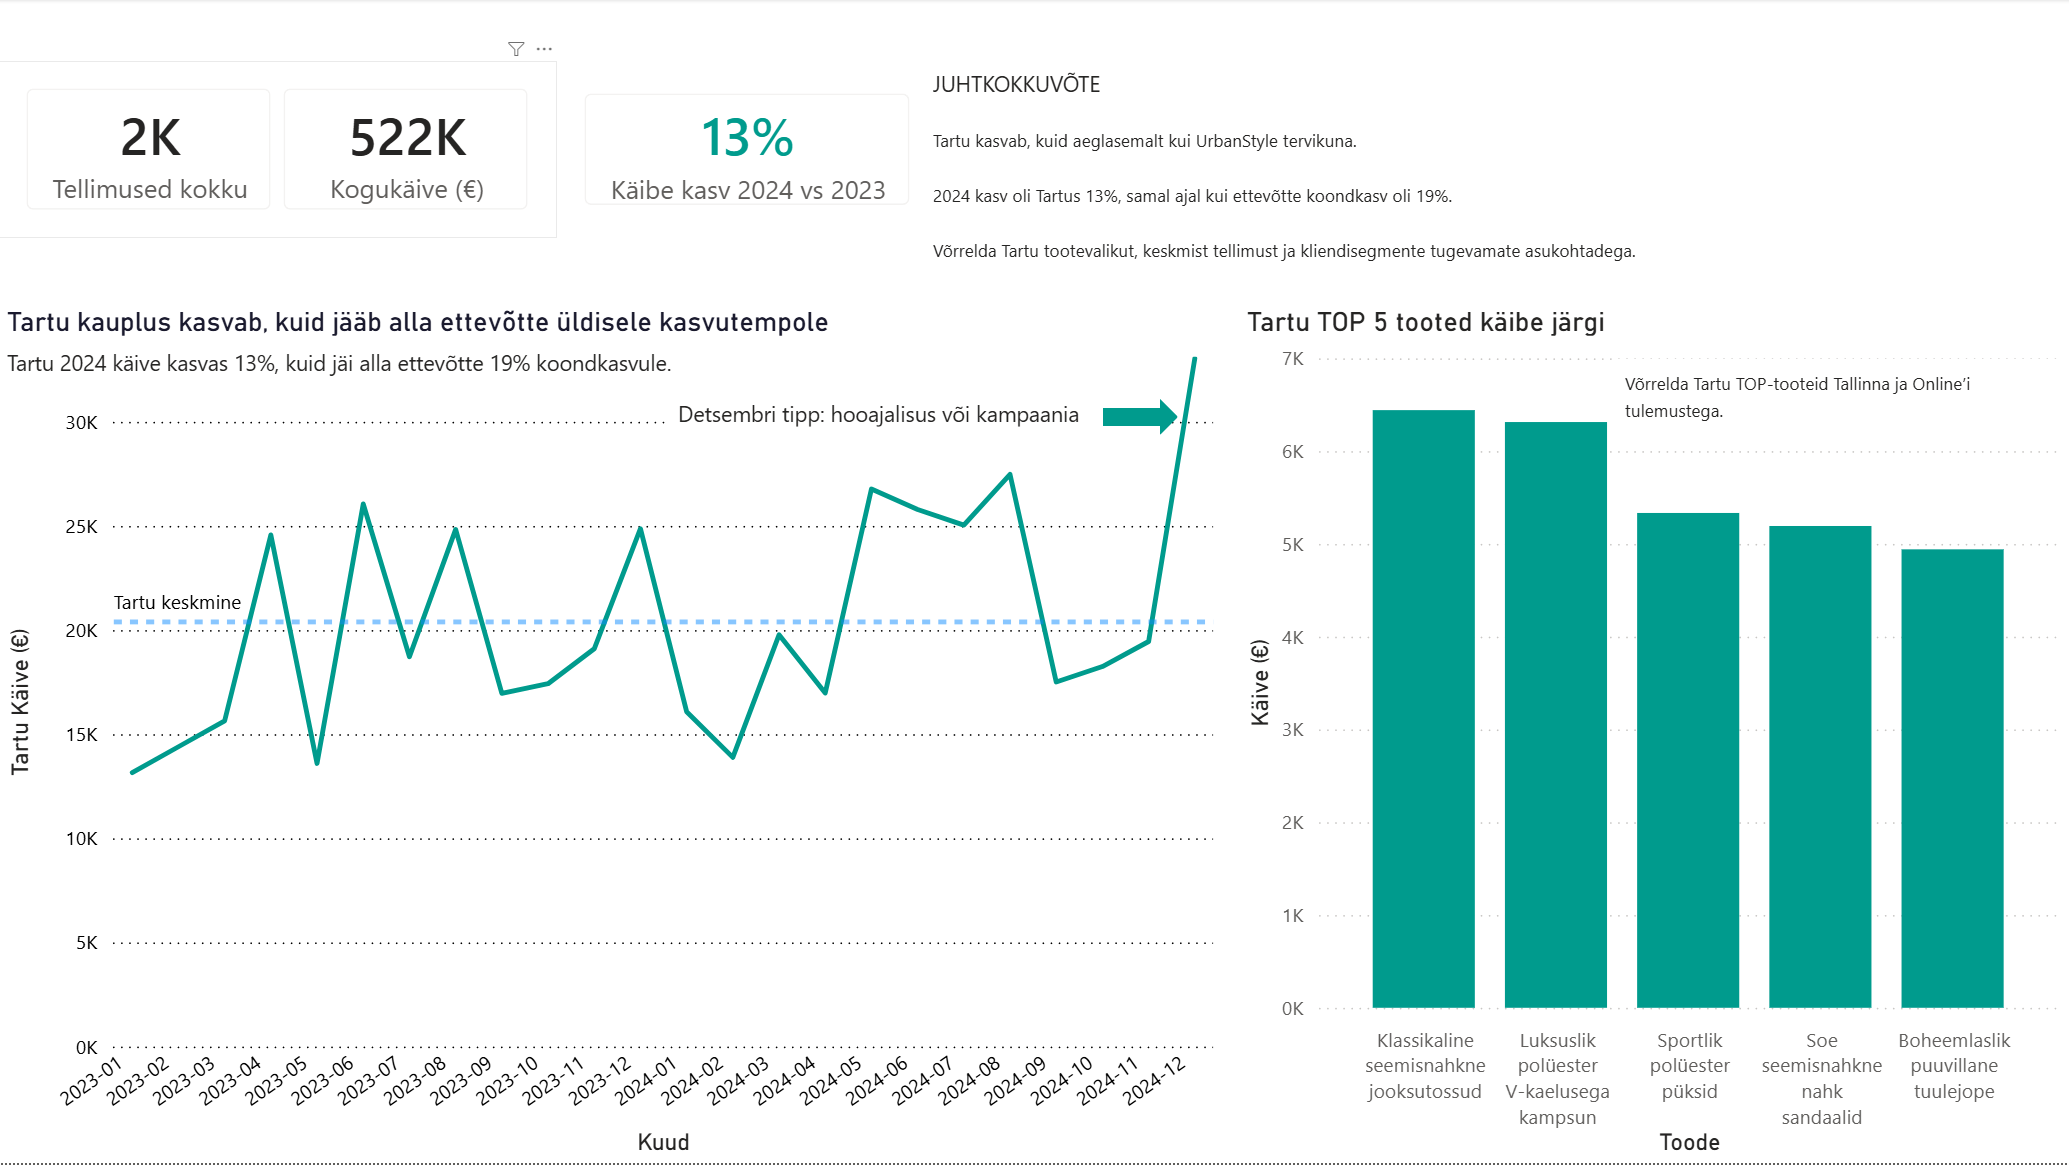
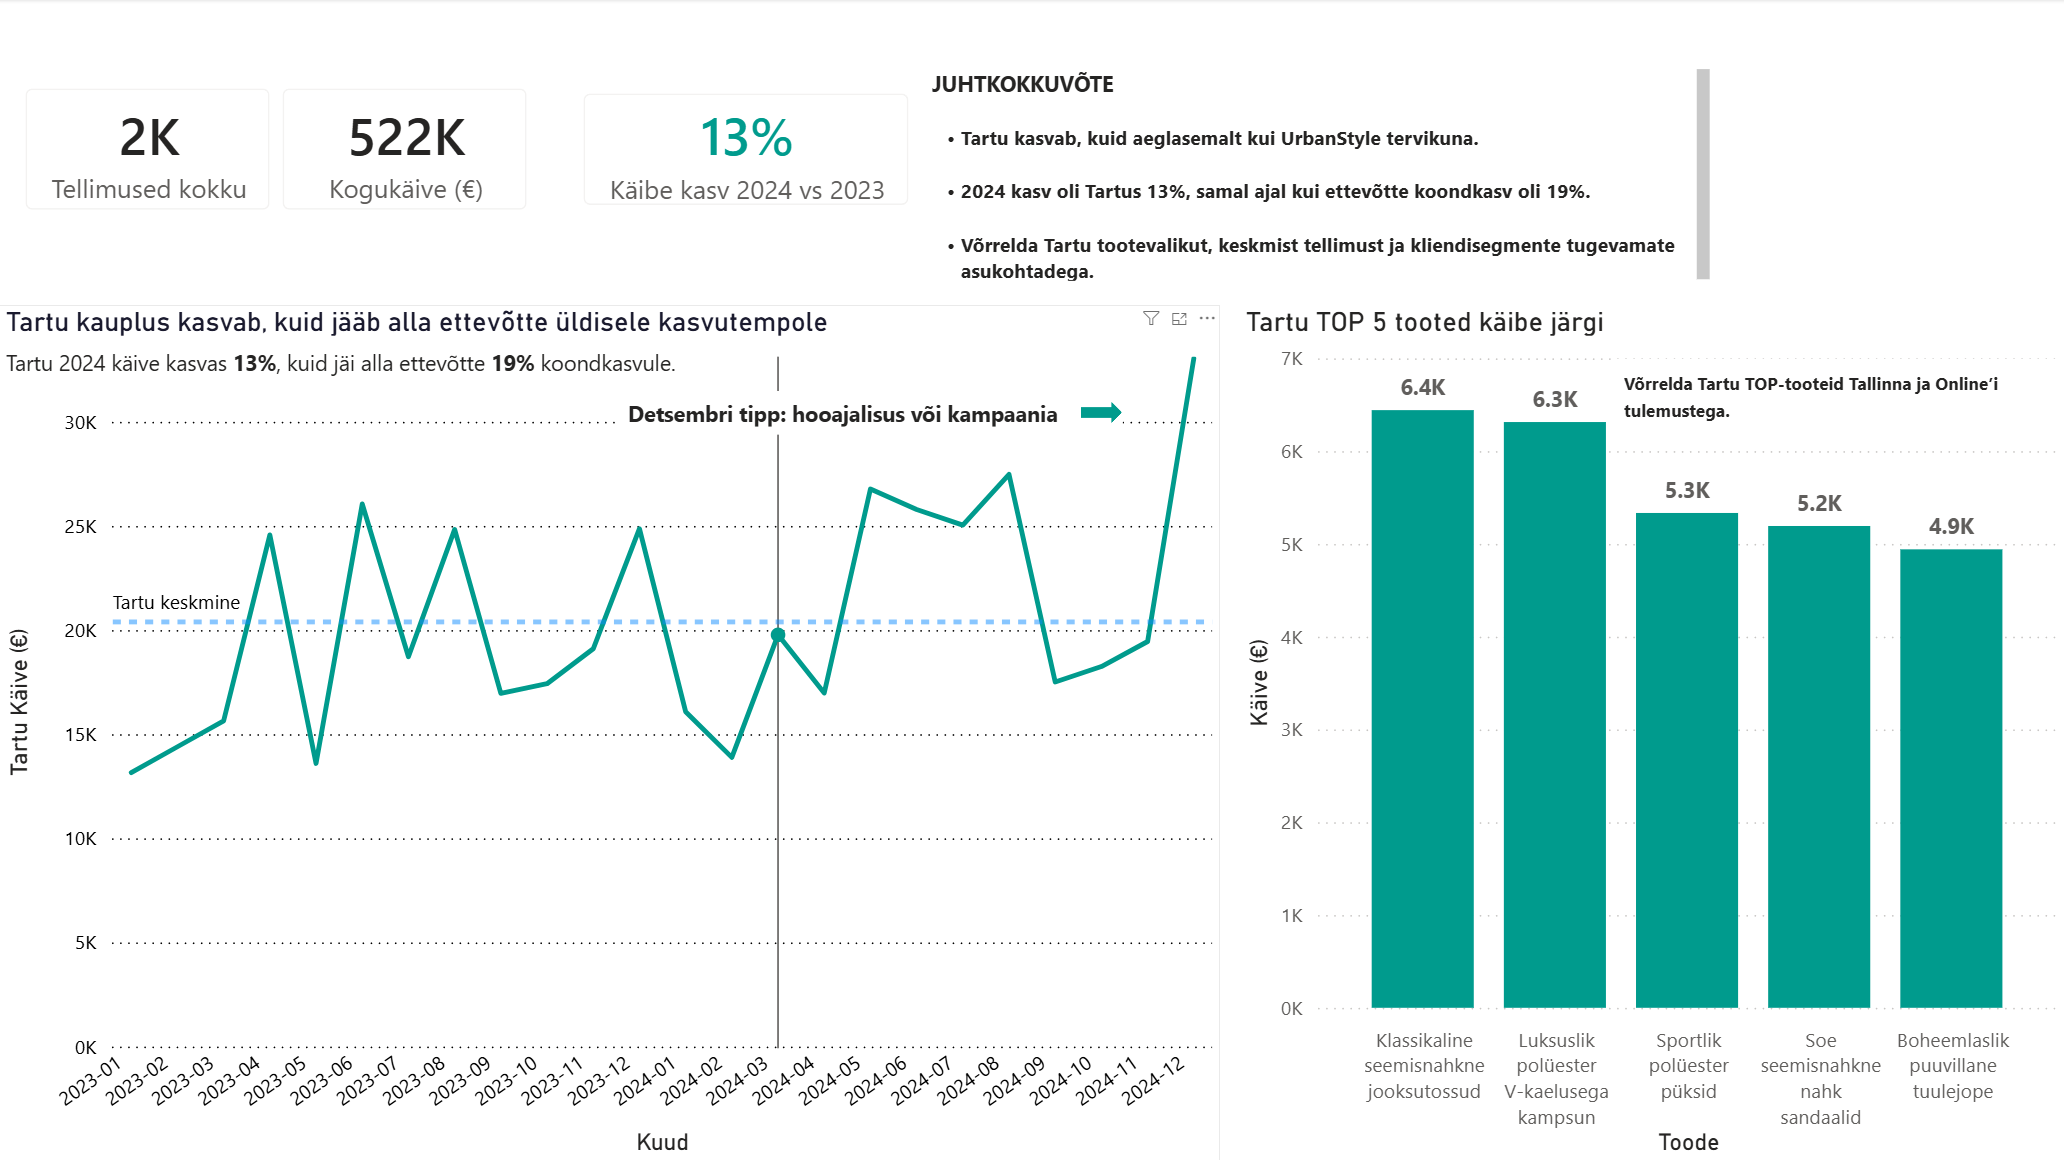
Update Week 6 dashboard screenshot

diff --git a/week6-data-storytelling/README.md b/week6-data-storytelling/README.md
@@ -91,9 +91,9 @@ The exported screenshot is stored as dashboard evidence:
 
 - [individual/week6_tartu_dashboard_storytelling.png][individual-dashboard-storytelling]
 
-Note: the Power BI source file was refreshed on June 12, 2026 with a clearer
-executive summary treatment using bullet points and stronger emphasis. A fresh
-PNG export should be added after re-exporting the updated Power BI page.
+Note: the Power BI source file and exported PNG were refreshed on June 12, 2026
+with a clearer executive summary treatment using bullet points and stronger
+emphasis.
 
 ![Tartu dashboard storytelling view][individual-dashboard-storytelling]
 
